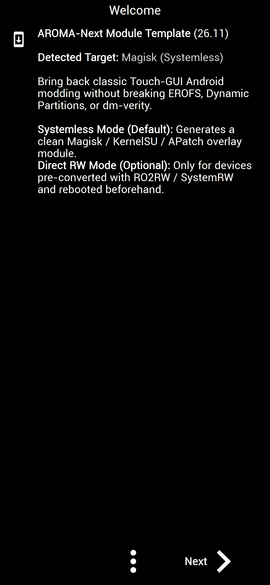
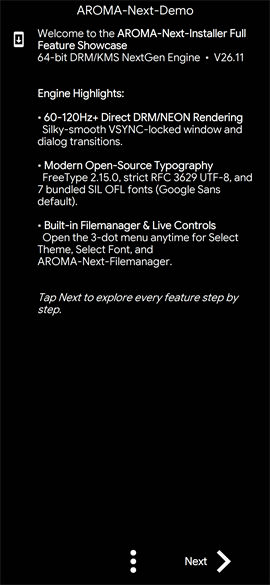
docs(rc4): update README, XDA thread template, 9 QHD+ screenshots & add Transitions showcase to Demo ZIP

Changed region(s): [[0.1185, 0.0, 0.9481, 0.4615], [0.1481, 0.4923, 0.8889, 0.5538], [0.6815, 0.9538, 0.7407, 0.9846]]

diff --git a/README.md b/README.md
@@ -2,28 +2,28 @@
 
 # AROMA-Next-Installer
 
-**Classic Touch-GUI Android Installer — Rebuilt for Modern `arm64-v8a` & `armeabi-v7a` Devices, Custom Recoveries, and Systemless-First Magisk / KernelSU / APatch Modules**
+**Classic Touch-GUI Android Installer & Integrated Filemanager — Rebuilt for Modern `arm64-v8a` & `armeabi-v7a` Devices, Custom Recoveries, and Systemless-First Magisk / KernelSU / APatch Modules**
 
 [![Build & Release](https://github.com/Miustone/AROMA-Next-Installer/actions/workflows/build.yml/badge.svg)](https://github.com/Miustone/AROMA-Next-Installer/actions/workflows/build.yml)
 [![GitHub Release](https://img.shields.io/github/v/release/Miustone/AROMA-Next-Installer?include_prereleases&label=Release&color=0099CC)](https://github.com/Miustone/AROMA-Next-Installer/releases)
 [![GitHub Downloads](https://img.shields.io/github/downloads/Miustone/AROMA-Next-Installer/total?label=Downloads&color=00AA55)](https://github.com/Miustone/AROMA-Next-Installer/releases)
-[![Architectures](https://img.shields.io/badge/Arch-arm64--v8a%20%7C%20armeabi--v7a-222222)](#downloads)
+[![Architectures](https://img.shields.io/badge/Arch-arm64--v8a%20%7C%20armeabi--v7a-222222)](#downloads--which-zip-should-i-use)
 [![License](https://img.shields.io/badge/License-Apache%202.0-blue)](LICENSE)
 
-[Screenshots](#screenshots) • [Highlights](#highlights) • [Downloads](#downloads) • [Systemless Modding](#systemless-first-modding--optional-pre-rw) • [Building](#building-from-source) • [Changelog](CHANGELOG.md)
+[Screenshots](#screenshots) • [Highlights](#highlights) • [Downloads & ZIP Guide](#downloads--which-zip-should-i-use) • [Filemanager](#aroma-next-filemanager--root-module-manager) • [Systemless Modding](#systemless-first-modding--optional-pre-rw) • [Building](#building-from-source) • [Changelog](CHANGELOG.md)
 
 </div>
 
 ---
 
-**AROMA-Next-Installer** is a modern `arm64-v8a` + `armeabi-v7a` revival of Ahmad Amarullah's **AROMA Installer** (Apache 2.0). Built from the ground up for contemporary Android smartphones (Android 10–16+), modern custom recoveries (**TWRP**, **OrangeFox**, **AERA Recovery**, **PitchBlack**), and safe **Systemless-First** module packaging (**Magisk**, **KernelSU**, **APatch**).
+**AROMA-Next-Installer** is a modern `arm64-v8a` + `armeabi-v7a` revival of Ahmad Amarullah's **AROMA Installer** (Apache 2.0). Rebuilt for contemporary Android smartphones (Android 10–16+), modern custom recoveries (**TWRP**, **OrangeFox**, **AERA Recovery**, **PitchBlack**), and safe **Systemless-First** module packaging (**Magisk**, **KernelSU**, **APatch**) — now shipping with **Google Sans** typography, **60–120Hz+ smooth Transitions**, and a fully integrated **AROMA-Next-Filemanager & Root Module Manager**.
 
 ---
 
 ## Screenshots
 
 <p align="center">
-  <em>Captured on Google Pixel 7 Pro • OrangeFox R12.0 • Black &amp; White Default Theme — Click any screenshot for full resolution</em>
+  <em>Captured on Google Pixel 7 Pro • OrangeFox R12.0 • Black &amp; White Theme + Google Sans Default — Click any screenshot for full QHD+ resolution</em>
 </p>
 
 <div align="center">
@@ -31,49 +31,61 @@
     <tr>
       <td align="center">
         <a href="screenshots/01-welcome.png">
-          <img src="screenshots/thumbs/01-welcome.png" width="195" alt="Welcome & Root Detection">
+          <img src="screenshots/thumbs/01-welcome.png" width="215" alt="Welcome & Engine Highlights">
         </a><br>
-        <sub><b>1. Welcome &amp; Root Detection</b></sub>
+        <sub><b>1. Welcome &amp; Engine Highlights</b></sub>
       </td>
       <td align="center">
-        <a href="screenshots/02-theme-switcher.png">
-          <img src="screenshots/thumbs/02-theme-switcher.png" width="195" alt="Live Theme Switcher">
+        <a href="screenshots/02-3dot-menu.png">
+          <img src="screenshots/thumbs/02-3dot-menu.png" width="215" alt="Streamlined 3-Dot Menu">
         </a><br>
-        <sub><b>2. Live Theme Switcher</b></sub>
+        <sub><b>2. Streamlined 3-Dot Menu</b></sub>
       </td>
       <td align="center">
         <a href="screenshots/03-about-dialog.png">
-          <img src="screenshots/thumbs/03-about-dialog.png" width="195" alt="About Dialog">
+          <img src="screenshots/thumbs/03-about-dialog.png" width="215" alt="About Dialog">
         </a><br>
-        <sub><b>3. About Dialog</b></sub>
-      </td>
-      <td align="center">
-        <a href="screenshots/04-installation-mode.png">
-          <img src="screenshots/thumbs/04-installation-mode.png" width="195" alt="Select Installation Mode">
-        </a><br>
-        <sub><b>4. Installation Mode</b></sub>
+        <sub><b>3. About Dialog (V26.11)</b></sub>
       </td>
     </tr>
-  </table>
-  <table>
     <tr>
       <td align="center">
-        <a href="screenshots/05-customize-modifications.png">
-          <img src="screenshots/thumbs/05-customize-modifications.png" width="195" alt="Customize Modifications">
+        <a href="screenshots/04-themes-submenu.png">
+          <img src="screenshots/thumbs/04-themes-submenu.png" width="215" alt="Themes Hub Submenu">
         </a><br>
-        <sub><b>5. Customize Modifications</b></sub>
+        <sub><b>4. Themes Submenu</b></sub>
       </td>
       <td align="center">
-        <a href="screenshots/06-ready-to-install.png">
-          <img src="screenshots/thumbs/06-ready-to-install.png" width="195" alt="Ready to Install">
+        <a href="screenshots/05-select-theme.png">
+          <img src="screenshots/thumbs/05-select-theme.png" width="215" alt="Live Theme Switcher">
         </a><br>
-        <sub><b>6. Ready to Install</b></sub>
+        <sub><b>5. Live Theme Switcher</b></sub>
       </td>
       <td align="center">
-        <a href="screenshots/07-installing-progress.png">
-          <img src="screenshots/thumbs/07-installing-progress.png" width="195" alt="Live Install Progress">
+        <a href="screenshots/06-select-font.png">
+          <img src="screenshots/thumbs/06-select-font.png" width="215" alt="Live Font Switcher">
         </a><br>
-        <sub><b>7. Live Install Progress</b></sub>
+        <sub><b>6. Live Font Switcher (7 Fonts)</b></sub>
+      </td>
+    </tr>
+    <tr>
+      <td align="center">
+        <a href="screenshots/07-transitions.png">
+          <img src="screenshots/thumbs/07-transitions.png" width="215" alt="60-120Hz Transitions">
+        </a><br>
+        <sub><b>7. Smooth Transitions (Fade Default)</b></sub>
+      </td>
+      <td align="center">
+        <a href="screenshots/08-demo-hub.png">
+          <img src="screenshots/thumbs/08-demo-hub.png" width="215" alt="Interactive Demo Hub">
+        </a><br>
+        <sub><b>8. Interactive Demo Hub</b></sub>
+      </td>
+      <td align="center">
+        <a href="screenshots/09-multilanguage-utf8.png">
+          <img src="screenshots/thumbs/09-multilanguage-utf8.png" width="215" alt="UTF-8 & Multilanguage">
+        </a><br>
+        <sub><b>9. Full UTF-8 &amp; Multilanguage</b></sub>
       </td>
     </tr>
   </table>
@@ -83,27 +95,28 @@
 
 ## Highlights
 
-- **Modern Display Backends (`DRM/KMS` + `fbdev`) & Smooth 60–120Hz+ Animations:** Pure Linux kernel ioctl **Atomic KMS** ping-pong double-buffered engine (zero `libdrm.so` dependency) with direct single-pass ARM NEON RGB565→RGBA backbuffer blitting, VSYNC-locked time-based cubic ease-out transitions, Exynos/Google Tensor panels (`RGBA8888`), **Qualcomm `msm_drm` Dual-LM Source-Split (AERA Recovery)**, legacy `SETCRTC` + `DIRTYFB`, and `fbdev` fallback.
-- **Modernized 2026 Core Libraries:** Upgraded all vendored libraries from 2011/2012 baselines to **`zlib 1.4`**, **`libpng 1.6.59`** (with ARM64/ARM32 NEON C intrinsics), **`FreeType 2.15.0`** (with Subpixel LCD filtering & Variable Fonts), and a rewritten RFC 3629-compliant **`minutf8`** UTF-8 decoder.
-- **Broad Custom Recovery Support (incl. AERA Recovery):** Works across **TWRP**, **OrangeFox**, **PitchBlack**, and **AERA Recovery** — including high file descriptor (`OUTFD >= 10`) pipe handling and full primary/overlay plane restoration added in **[`V26.11-RC2-PRE2`](CHANGELOG.md#v2611-rc2-pre2--2026-11-20-pre-release)** *(2026-11-20 Pre-Release)*.
-- **Zero-Freeze Recovery Safety (`EXIT 77`):** Cleanly pauses/resumes ancestor recovery processes and restores original scanout planes before exit. If a recovery holds an unshared display lock, AROMA-Next exits with code `77` (`AROMA_EXIT_NO_DISPLAY`) and automatically runs the non-GUI fallback instead of hanging.
-- **High-Hz OLED Touch & Hardware Keys:** Scans up to 64 input devices (`/dev/input/event0..63`), supports Linux Multitouch Protocol Type-B (`ABS_MT_SLOT`), includes LED vibrator haptic fallback, and suppresses accidental key actions during `Vol-Down + Power` screenshots (with shutter flash feedback).
-- **Live Theme & Font Switcher + Google Sans Default:** Ships with Miustone's crisp **Black & White** OLED theme and official open-source **Google Sans** (SIL OFL) as defaults — open **3-Dot Menu → Select Theme / Select Font** at any step to switch themes (*Black & White, ICS, MIUI 4, MIUI, Touchwiz, Franzyroy, Generic*) or modern fonts (*Google Sans, Roboto, Inter, Plus Jakarta Sans, Outfit, Ubuntu, JetBrains Mono*) live without losing selections.
-- **Integrated AROMA-Next File Manager & Root Module Manager:** Built right into the shared engine (**3-Dot Menu → File Manager** or standalone **`AROMA-Next-Filemanager.zip`**) to manage Magisk / KernelSU / APatch modules (`/data/adb/modules`: enable/disable, remove, edit `module.prop` / `system.prop`), browse & edit `/sdcard` files (copy, move, delete, rename, `chmod`, built-in touch keyboard & line editor), and inspect/remount RW system partitions safely.
+- **Modern Display Engine (`DRM/KMS` + `fbdev`) & Smooth 60–120Hz+ Transitions:** Pure Linux kernel ioctl **Atomic KMS** ping-pong double-buffered engine (zero `libdrm.so` dependency) with single-pass ARM NEON RGB565→RGBA backbuffer blitting, VSYNC-locked time-based cubic ease-out transitions (**`Fade` Default**, **`Slide`**, **`Stack`**, **`Zoom`**, and **`None`**), Exynos/Google Tensor panels (`RGBA8888`), **Qualcomm `msm_drm` Dual-LM Source-Split (AERA Recovery)**, legacy `SETCRTC` + `DIRTYFB`, and `fbdev` fallback.
+- **Google Sans Default + 7 Bundled Open-Source Fonts:** Ships with official open-source **Google Sans** (SIL OFL) as the default typeface across every ZIP, paired with **Roboto**, **Inter**, **Plus Jakarta Sans**, **Outfit**, **Ubuntu**, **JetBrains Mono**, and `DroidSansFallback.ttf` for full Latin, Cyrillic, Hebrew, and CJK UTF-8 rendering.
+- **Streamlined 3-Dot Menu & Dedicated `Themes` Hub:** Clean top-to-bottom menu (**`About` → `Themes` → `Filemanager` → `Exit` → `Back`**). Tap **`Themes`** at any screen to switch **Themes** (*Black & White, ICS, MIUI 4, MIUI, Touchwiz, Franzyroy, Generic*), **Fonts** (*7 modern fonts*), or **Transitions** (*Fade, Slide, Stack, Zoom, None*) live without restarting or losing selections.
+- **Integrated `AROMA-Next-Filemanager` & Root Module Manager:** Built directly into the shared AROMA-Next binary (zero duplicate engine code) — launchable from **3-Dot Menu → `Filemanager`** inside any installer OR standalone via **`AROMA-Next-Filemanager.zip`**.
+- **Modern HiDPI Splash & Nostalgia Animation:** Crisp 920×360 HiDPI **AROMA-Next-Installer** Google Sans splash screen featuring the classic AROMA echo-pulse nostalgia animation with automatic proportional HiDPI scaling.
+- **Modernized 2026 Core Libraries:** Upgraded all vendored C libraries from 2011/2012 baselines to **`zlib 1.4`**, **`libpng 1.6.59`** (ARM64/ARM32 NEON intrinsics), **`FreeType 2.15.0`** (Subpixel LCD filtering & Variable Fonts), and a rewritten RFC 3629-compliant **`minutf8`** UTF-8 decoder.
+- **Zero-Freeze Recovery Safety (`EXIT 77`) & High-Hz OLED Touch:** Scans `/dev/input/event0..63`, supports Linux Multitouch Protocol Type-B (`ABS_MT_SLOT`), suppresses accidental key clicks during `Vol-Down + Power` screenshots (with shutter flash), cleanly pauses/resumes ancestor recovery processes, and exits with code `77` (`AROMA_EXIT_NO_DISPLAY`) if a recovery holds an unshared display lock.
 - **Flash Anywhere (Recovery or Root App):** Runs the full Touch GUI inside custom recoveries (`BOOTMODE=false`) and automatically falls back to headless module installation when flashed inside the **Magisk**, **KernelSU**, or **APatch** app (`BOOTMODE=true`).
 
 ---
 
-## Downloads
+## Downloads — Which ZIP Should I Use?
 
-Prebuilt flashable ZIPs and standalone static ELF binaries are built automatically via GitHub Actions and published on the [**Releases**](https://github.com/Miustone/AROMA-Next-Installer/releases) page:
+Every GitHub Release on the [**Releases**](https://github.com/Miustone/AROMA-Next-Installer/releases) page ships **4 purpose-built flashable ZIPs** plus standalone static ELF binaries, all sharing the exact same `arm64-v8a` + `armeabi-v7a` engine:
 
-| Package | Description |
-| :--- | :--- |
-| **`AROMA-Next-Installer.zip`** | Universal recovery demo & test ZIP (`arm64-v8a` + `armeabi-v7a` Touch GUI) |
-| **`AROMA-Next-Magisk-Template.zip`** | Ready-to-use Magisk / KernelSU / APatch module template with Recovery Touch GUI, App-mode fallback, `aroma-env-check.sh`, and `aroma-mod-lib.sh` |
-| **`AROMA-Next-Filemanager.zip`** | Standalone flashable **AROMA-Next File Manager & Root Module Manager** (also accessible from the 3-Dot Menu inside every installer ZIP) |
-| **`aroma_installer-arm64`** / **`aroma_installer-arm32`** | Standalone static ELF binaries for custom integration |
+| Package | Best For | What's Inside |
+| :--- | :--- | :--- |
+| **`AROMA-Next-Installer.zip`** | **ROM / Kernel / Mod Developers** (Clean Base Template) | Minimal, clutter-free starter installer with the modern HiDPI nostalgia splash, Google Sans + Black & White defaults, clean Welcome screen, quick Filemanager entry, and a safe sample `updater-script`. Ready to customize without legacy 2013 demo clutter. |
+| **`AROMA-Next-Magisk-Template.zip`** | **Magisk / KernelSU / APatch Module Authors** | Ready-to-use **Systemless-First** (+ optional Pre-RW) dual-mode module template with Recovery Touch GUI, automatic App-mode fallback (`BOOTMODE=true`), `aroma-env-check.sh`, and the `aroma-mod-lib.sh` helper API. |
+| **`AROMA-Next-Filemanager.zip`** | **End Users & Power Users** (Recovery Tool) | Standalone flashable **AROMA-Next-Filemanager & Root Module Manager** — boots directly into the file & module manager (also accessible from the 3-Dot Menu inside every other AROMA-Next ZIP). |
+| **`AROMA-Next-Demo.zip`** | **Testers & Explorers** (Full Feature Showcase) | Interactive showcase of **every** AROMA-Next V26.11 feature on demand: Splash + Nostalgia Animation, all 7 Themes, all 7 Fonts, all 5 Transitions, Multilanguage UTF-8 test, Checkboxes, Forms, Menubox, modern V26.11 Changelog, Apache 2.0 License, Filemanager launch, and simulated install progress. |
+| **`aroma_installer-arm64`** / **`aroma_installer-arm32`** | **Custom Integrations** | Standalone static musl/NDK ELF binaries (`arm64-v8a` & `armeabi-v7a`). |
 
 ### Supported & Verified Recoveries / Devices
 
@@ -115,6 +128,23 @@ Prebuilt flashable ZIPs and standalone static ELF binaries are built automatical
 > **AERA Recovery Support (`V26.11-RC2-PRE2` — 2026-11-20 Pre-Release):** Includes Qualcomm `msm_drm` Dual-LM Source-Split Atomic KMS plane prioritization, pixel-format validation, full primary + overlay plane restoration on exit, and `/proc/self/fd/$OUTFD` high-FD pipe compatibility.
 >
 > Have you tested AROMA-Next on another device or recovery? Feedback and `/tmp/recovery.log` reports are always welcome via GitHub Issues!
+
+---
+
+## AROMA-Next-Filemanager & Root Module Manager
+
+Integrated directly into the shared C engine (`src/main/aroma_filemanager.c`) with 4 unified **inline top tabs** (**`Modules` | `Storage` | `System` | `Tools`**) and a 1:1 matched installer bottom navigation bar:
+
+- **Root Module Manager (`Modules` → `/data/adb/modules`):**
+  - Lists all installed **Magisk**, **KernelSU**, and **APatch** modules with metadata (`module.prop`) and live status (`ACTIVE`, `DISABLED`, `REMOVE PENDING`, `UPDATE PENDING`).
+  - One-tap **Enable / Disable**, **Mark for Removal on Reboot**, **Delete Module Now**, **Browse Module Files**, **Edit `module.prop`**, and **Edit `system.prop`**.
+- **Internal Storage (`Storage` → `/sdcard` / `/data/media/0`):**
+  - Recursive **Copy**, **Cut / Move**, **Paste**, **Delete**, **Rename**, **New Folder**, **New Text File**, **`chmod`** (presets & custom octal), **Properties**, and hidden `.dotfiles` toggle.
+- **System Partitions (`System`):**
+  - Inline browser for `/`, `/system`, `/system_root`, `/vendor`, `/product`, `/system_ext`, `/odm`, `/data`, `/cache`, `/persist`, `/metadata`, and `/tmp` with live `/proc/mounts` **`[RW]` / `[RO]`** + filesystem detection and a safe **`Remount Partition RW`** helper.
+- **Built-in Touch Keyboard & Text Line Editor:**
+  - Full on-screen QWERTY keyboard (lowercase, uppercase, symbols, UTF-8 backspace) and built-in **Text Viewer & Line Editor** (up to 256 KB with automatic binary file protection).
+- **Edify Integration:** Any custom `aroma-config` can launch the file manager directly via `filemanager();` or `filemanager("/data/adb/modules");`.
 
 ---
 
@@ -166,11 +196,11 @@ aroma_mod_patch_file "system/etc/hosts" "s/old_entry/new_entry/"
 <summary><b>Why Legacy AROMA Broke &amp; Under-the-Hood Improvements (Click to expand)</b></summary>
 
 1. **64-bit (`arm64-v8a`) & C11 Cleanliness:**
-   - Fixed 64-bit pointer truncation (`uintptr_t` in `src/libs/aroma_memory.c`, `intptr_t` casts in `src/libs/aroma_graph.c` and `libs/minzip/Zip.c`), `sizeof(AARRAY_ITEM)` allocation & `NULL`-key checks in `src/libs/aroma_array.c`, `0755` permissions in `src/libs/aroma_zip.c`, `fabs()` in `src/libs/aroma_libs.c`, ARM64 NEON blitter alpha init in `src/libs/neon/blt_neon.c`, and C11 inline linkage in `libs/minzip/inline_magic.h`.
+   - Fixed 64-bit pointer truncation (`uintptr_t` in `src/libs/aroma_memory.c`, `intptr_t` casts in `src/libs/aroma_graph.c` and `libs/minzip/Zip.c`), `sizeof(AARRAY_ITEM)` allocation & `NULL`-key checks in `src/libs/aroma_array.c`, `0755` permissions in `src/libs/aroma_zip.c`, `fabs()` in `src/libs/aroma_libs.c`, ARM64 NEON blitter alpha init in `src/libs/neon/blt_neon.c`, destination bounds clipping in `ag_draw_strecth_ex`, and C11 inline linkage in `libs/minzip/inline_magic.h`.
    - Updated `Android.mk` + added `Application.mk` (`APP_PLATFORM := android-35`) for Android NDK r27c (`arm64-v8a` + `armeabi-v7a`).
 
 2. **Dual Display Engine (`fbdev` + Pure-ioctl `DRM/KMS` + Atomic KMS):**
-   - Added `src/libs/graph_drm.c`: pure Linux kernel ioctl DRM/KMS dumb-buffer backend (`/dev/dri/card0..3`) with **inherited DRM master FD detection** (`/proc/self/fd`), **Atomic KMS** double-buffering & overlay plane management (`DRM_IOCTL_MODE_ATOMIC`), **Qualcomm `msm_drm` Dual-LM Source-Split** plane selection & full property restoration before `RMFB` (prevents `-EINVAL` black screen / UI freezes on return to recovery), Exynos/Google Tensor byte-order handling (`RGBA8888`), legacy `SETCRTC` + `DIRTYFB` fallback, and zero external `libdrm.so` dependency.
+   - Added `src/libs/graph_drm.c`: pure Linux kernel ioctl DRM/KMS dumb-buffer backend (`/dev/dri/card0..3`) with **inherited DRM master FD detection** (`/proc/self/fd`), **Atomic KMS** double-buffering & overlay plane management (`DRM_IOCTL_MODE_ATOMIC`), direct single-pass ARM NEON backbuffer blitting, **Qualcomm `msm_drm` Dual-LM Source-Split** plane selection & full property restoration before `RMFB`, Exynos/Google Tensor byte-order handling (`RGBA8888`), legacy `SETCRTC` + `DIRTYFB` fallback, and zero external `libdrm.so` dependency.
    - Enhanced `fbdev` in `src/libs/aroma_graph.c`: tries `/dev/graphics/fb0` and `/dev/fb0`, validates `mmap != MAP_FAILED`, and reads real `red/green/blue/transp` channel offsets from `FBIOGET_VSCREENINFO`.
    - **Anti-Freeze Recovery Safety (`EXIT 77`):** If neither `fbdev` nor DRM master can be acquired, AROMA-Next immediately resumes the parent recovery (`SIGCONT`) and exits with code `77` (`AROMA_EXIT_NO_DISPLAY`) so the dispatcher runs the non-GUI fallback instead of hanging recovery.
    - **Process Hierarchy Pause (`src/main/aroma.c`):** Walks ancestor PIDs up to `recovery`/`twrp` so both shell dispatchers (`update-binary`) and the recovery compositor stay paused during Touch GUI execution and resume cleanly in reverse order.
@@ -188,7 +218,7 @@ aroma_mod_patch_file "system/etc/hosts" "s/old_entry/new_entry/"
 ## Building from Source
 
 ### Option 1: GitHub Actions (Automatic Releases)
-Push to `main`/`master` (updates the `latest` pre-release) or push a tag `v*` / `V*` (creates a versioned GitHub Release; tags containing `-PRE` or `-TEST` are automatically marked as pre-releases) using [`.github/workflows/build.yml`](.github/workflows/build.yml) with Android NDK r27c.
+Push to `main`/`master` or push a tag `v*` / `V*` (creates a versioned GitHub Release; tags containing `-PRE` or `-TEST` are automatically marked as pre-releases) using [`.github/workflows/build.yml`](.github/workflows/build.yml) with Android NDK r27c.
 
 ### Option 2: Local Android NDK
 ```sh
@@ -199,7 +229,7 @@ ndk-build NDK_PROJECT_PATH=. APP_BUILD_SCRIPT=Android.mk NDK_APPLICATION_MK=Appl
 ```sh
 python build.py --arch arm64 arm32
 ```
-Outputs static binaries to `out/bin/` and flashable ZIPs to `dist/AROMA-Next-Installer.zip` and `dist/AROMA-Next-Magisk-Template.zip`.
+Outputs static binaries to `out/bin/` and all 4 flashable ZIPs to `dist/` (`AROMA-Next-Installer.zip`, `AROMA-Next-Magisk-Template.zip`, `AROMA-Next-Filemanager.zip`, and `AROMA-Next-Demo.zip`).
 
 ---
 
